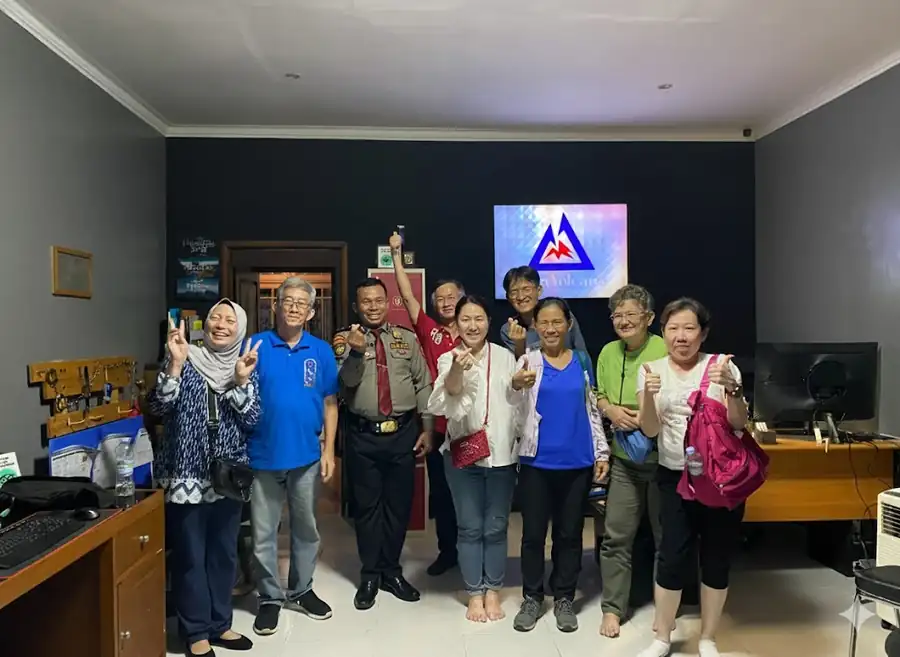
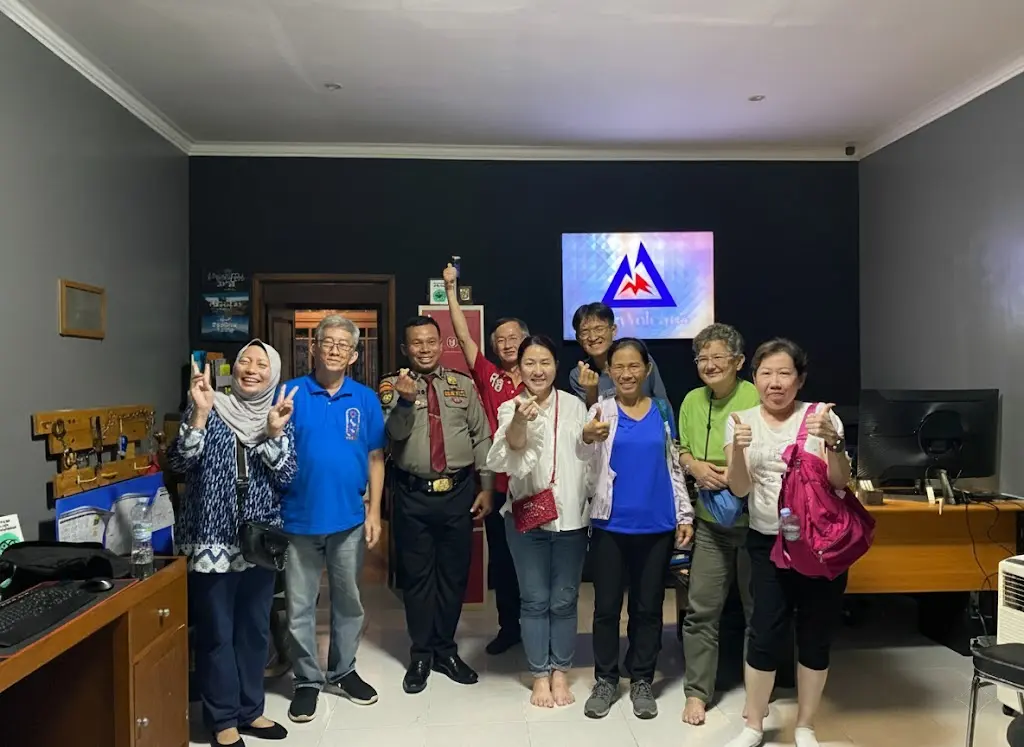
update

diff --git a/src/components/website/LandingPage/StickyWhatsApp.tsx b/src/components/website/LandingPage/StickyWhatsApp.tsx
@@ -55,7 +55,7 @@ export default function StickyWhatsApp({
   }, []);
 
   return (
-    <div className="fixed bottom-24 lg:bottom-6 right-5 z-50 flex flex-col items-end gap-2">
+    <div className="fixed bottom-6 right-5 z-50 flex flex-col items-end gap-2">
       {/* Nudge tooltip — appears after 4s, fades out at 9s */}
       <div
         className={`transition-all duration-300 ${
